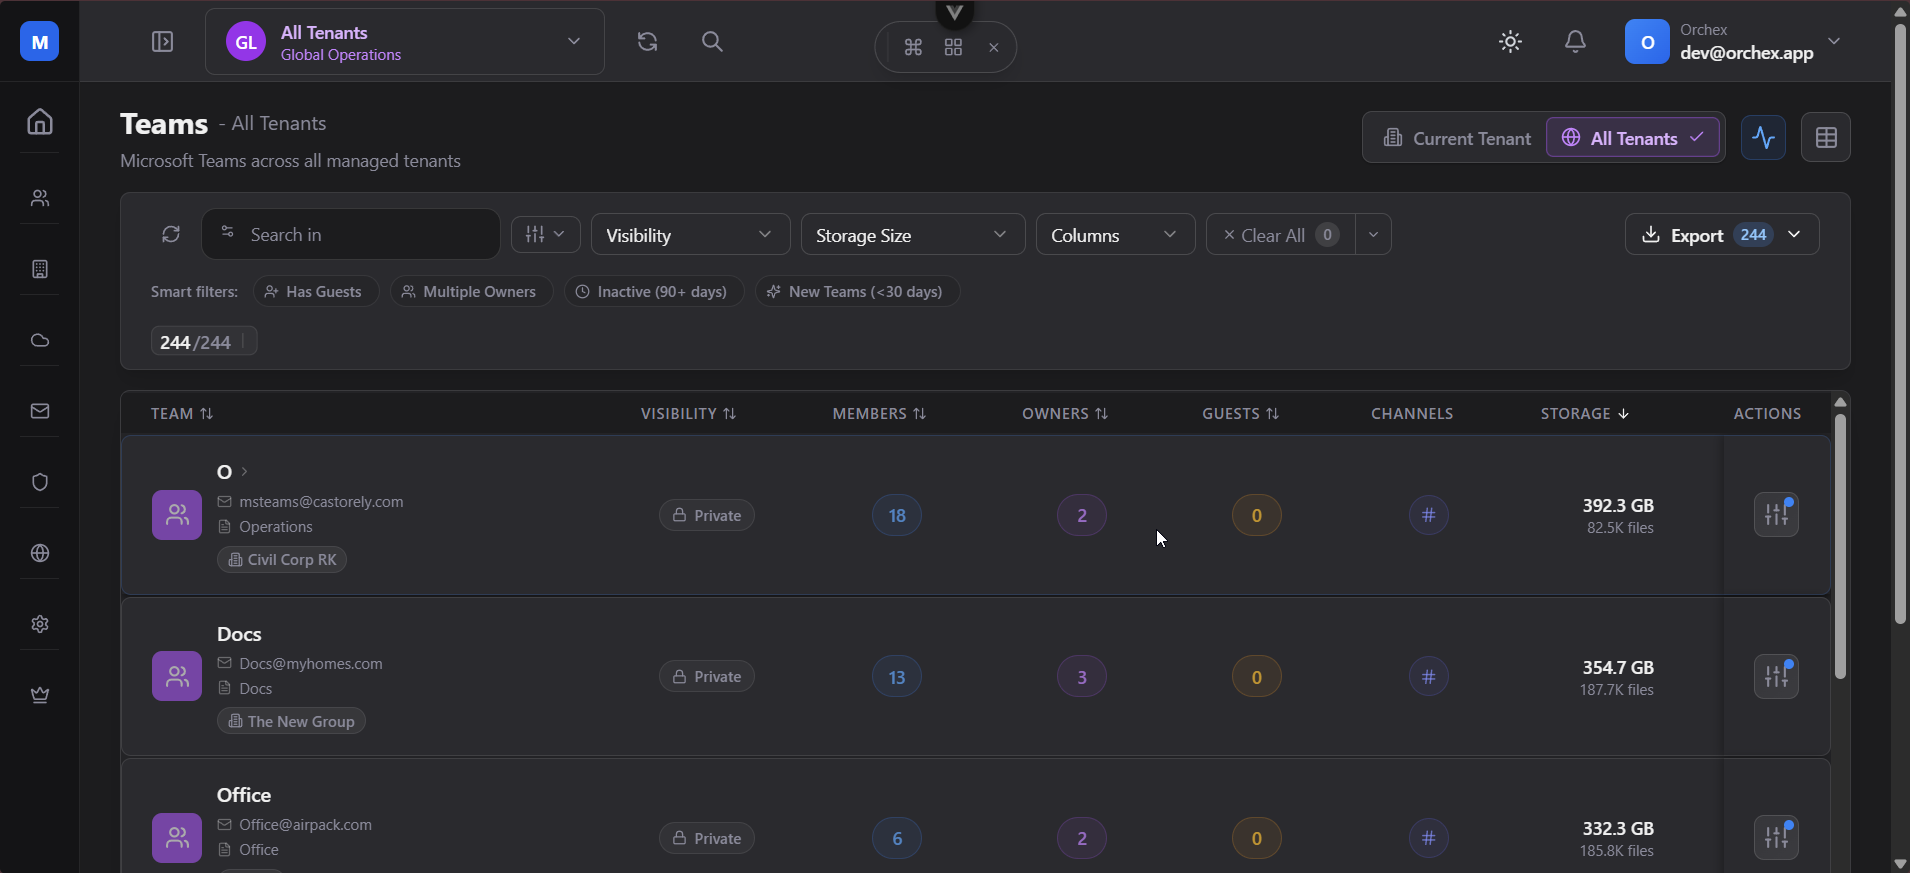
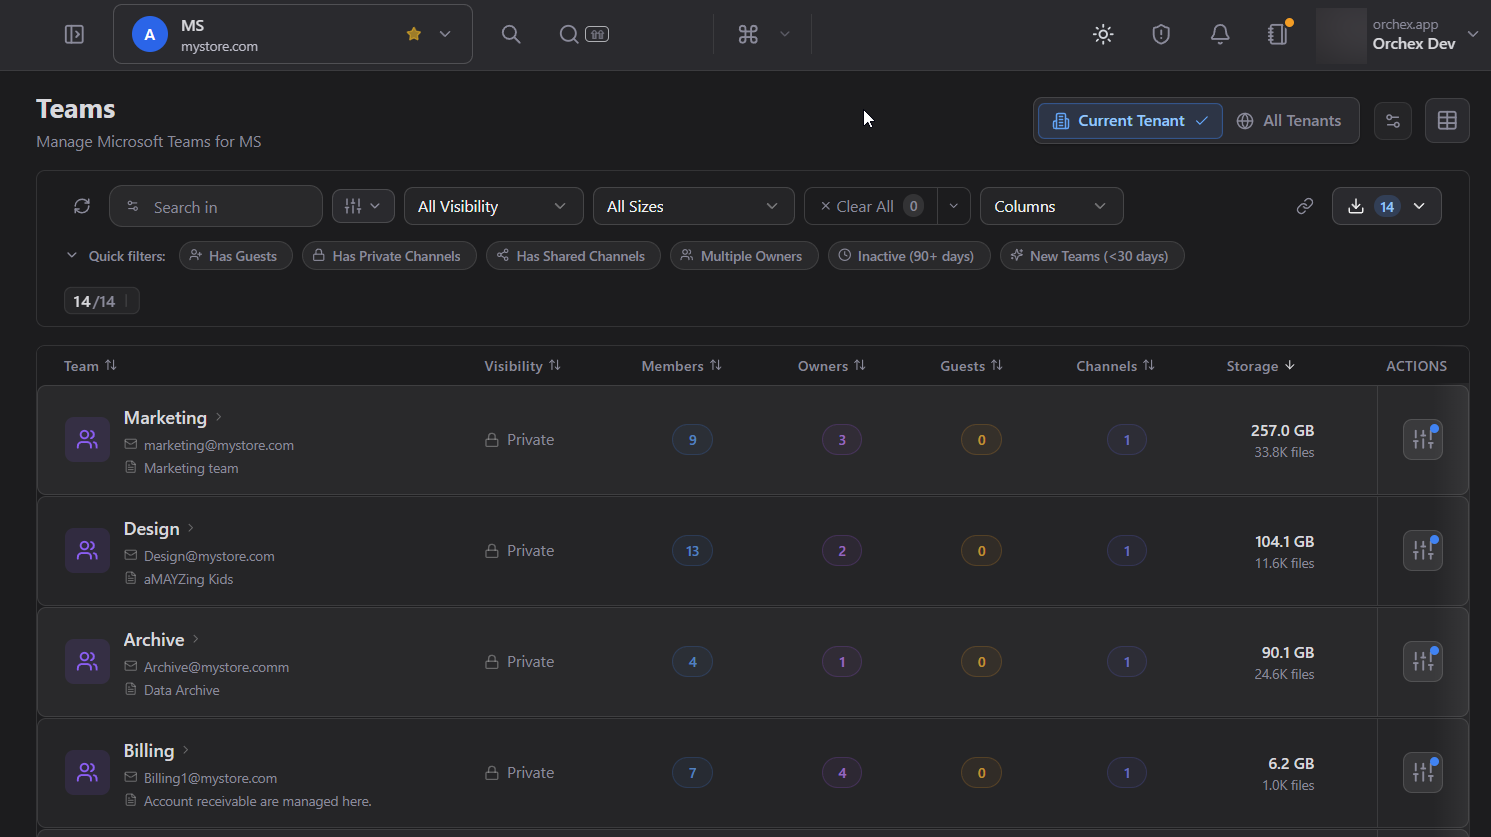
Give Teams and SharePoint a section each, both as a pair
The section was labelled "Teams & SharePoint" and contained no SharePoint at
all — the shot was the Teams table and all three bullets were about teams. So
SharePoint had no place on the site despite being a full page with storage
analytics of its own.

Teams keeps the label it earns and gains its overview beside the table, the
same pairing the identity and licence sections use. SharePoint gets its own
section: the overview is the stronger half there, since capacity broken into
base, licence contribution and add-ons is the question the page exists to
answer.

Image names are settled to <Page>Overview.png while adding two more of them,
and the old Teams shot goes — it predates the current chrome, like the licence
shot replaced earlier.

diff --git a/src/App.vue b/src/App.vue
@@ -315,7 +315,7 @@
         </div>
         <div class="feature-wide-img-row">
           <div class="feature-wide-img" style="flex: 1.81">
-            <img src="/images/OverviewLicenses.png" alt="ORCHEX License Overview — unused licenses, idle seats, distribution and expiring subscriptions" />
+            <img src="/images/LicensesOverview.png" alt="ORCHEX License Overview — unused licenses, idle seats, distribution and expiring subscriptions" />
             <div class="feature-sub-caption">
               <strong>Overview — click any card to filter the table</strong>
             </div>
@@ -350,7 +350,7 @@
              at the same height despite different source dimensions. -->
         <div class="feature-wide-img-row">
           <div class="feature-wide-img" style="flex: 1.73">
-            <img src="/images/Overview.png" alt="ORCHEX Users Overview — clickable stat cards, MFA coverage, mailbox storage and user growth" />
+            <img src="/images/UsersOverview.png" alt="ORCHEX Users Overview — clickable stat cards, MFA coverage, mailbox storage and user growth" />
             <div class="feature-sub-caption">
               <strong>Overview — click a card to filter the table</strong>
             </div>
@@ -534,23 +534,65 @@
         </div>
       </div>
 
-      <!-- 18. Teams & SharePoint — niche -->
+      <!-- 18. Teams -->
       <div class="feature-wide">
         <div class="feature-wide-header">
-          <span class="feature-label">Teams & SharePoint</span>
-          <h2>Full visibility across all tenants</h2>
+          <span class="feature-label">Teams</span>
+          <h2>Every team, and the storage it is actually using.</h2>
           <ul class="feature-list feature-list-cols">
-            <li>Storage usage per team with file count</li>
-            <li>Smart filters: inactive, new, multiple owners, has guests</li>
-            <li>Export to CSV with one click</li>
+            <li>Storage and file count per team — the figure Microsoft makes you open each team to find</li>
+            <li>Smart filters: has guests, private or shared channels, multiple owners, inactive 90+ days, new</li>
+            <li>Tenant storage measured against its real quota, not an estimate</li>
+            <li>Click a team in the storage breakdown to open it, or a stat card to filter the table</li>
+            <li>Per tenant or across every tenant at once, and the filtered list exports to CSV</li>
           </ul>
         </div>
-        <div class="feature-wide-img">
-          <img src="/images/Teams.png" alt="Teams management across all tenants" />
+        <div class="feature-wide-img-row">
+          <div class="feature-wide-img" style="flex: 1.63">
+            <img src="/images/TeamsOverview.png" alt="ORCHEX Teams Overview — tenant storage, visibility split and storage per team" />
+            <div class="feature-sub-caption">
+              <strong>Overview — storage per team, largest first</strong>
+            </div>
+          </div>
+          <div class="feature-wide-img" style="flex: 1.78">
+            <img src="/images/Teams.png" alt="ORCHEX Teams — members, owners, guests, channels and storage per team" />
+            <div class="feature-sub-caption">
+              <strong>Teams — owners, guests and channels in one row</strong>
+            </div>
+          </div>
         </div>
       </div>
 
-      <!-- 19. Portal Health — internal ops -->
+      <!-- 19. SharePoint -->
+      <div class="feature-wide">
+        <div class="feature-wide-header">
+          <span class="feature-label">SharePoint</span>
+          <h2>Where the storage went — and what the capacity is made of.</h2>
+          <ul class="feature-list feature-list-cols">
+            <li>Capacity broken into its parts: base allocation, licence contribution and purchased add-ons</li>
+            <li>Top storage consumers ranked, next to the sites nobody has opened in a year</li>
+            <li>Quick filters: large sites &gt;50 GB, high file count, inactive &gt;90 days, storage critical &gt;90%</li>
+            <li>Teams and system sites counted separately, so a site count means what you expect</li>
+            <li>Per-site usage against quota, file count and last activity in a single row</li>
+          </ul>
+        </div>
+        <div class="feature-wide-img-row">
+          <div class="feature-wide-img" style="flex: 1.74">
+            <img src="/images/SharePointOverview.png" alt="ORCHEX SharePoint Overview — storage used against capacity, storage breakdown, site types and top consumers" />
+            <div class="feature-sub-caption">
+              <strong>Overview — what the capacity is made of</strong>
+            </div>
+          </div>
+          <div class="feature-wide-img" style="flex: 1.73">
+            <img src="/images/SharePoint.png" alt="ORCHEX SharePoint Sites — usage against quota, file counts and last activity per site" />
+            <div class="feature-sub-caption">
+              <strong>Sites — usage, files and last activity</strong>
+            </div>
+          </div>
+        </div>
+      </div>
+
+      <!-- 20. Portal Health — internal ops -->
       <div class="feature-wide">
         <div class="feature-wide-header">
           <span class="feature-label">Portal Health</span>
@@ -566,7 +608,7 @@
         </div>
       </div>
 
-      <!-- 20. User Actions — UI detail -->
+      <!-- 21. User Actions — UI detail -->
       <div class="feature-row">
         <div class="feature-text">
           <span class="feature-label">User Actions</span>
@@ -583,7 +625,7 @@
         </div>
       </div>
 
-      <!-- 21. Dual-mode Modals — UI detail -->
+      <!-- 22. Dual-mode Modals — UI detail -->
       <div class="feature-row feature-row-reverse">
         <div class="feature-text">
           <span class="feature-label">Dual-mode Modals</span>
